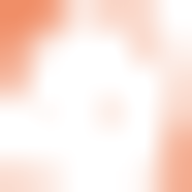
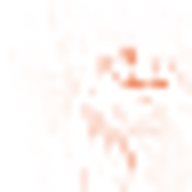
Fused Grad-CAM puts the heat on the body (62% vs 15%); 96.7% and the indoor result in README, DEVPOST and slides; survivor poses for Yusuf

diff --git a/ml/gradcam.py b/ml/gradcam.py
@@ -12,8 +12,14 @@ at /crops, so the files are at /crops/heatmaps/<name>.png and /crops/manifest.js
 Grad-CAM (Selvaraju et al. 2017): weight each channel of a conv layer's activations by the mean
 gradient of the "person" score, sum, ReLU, upsample. We use the person class for every crop,
 so on a decoy the map shows what looked most person-like, even though the model said no.
-Layer: features[8], the last block at 1/16 resolution (6 x 6 for a 96 px crop). The final
-block is only 3 x 3, too coarse to show anything on a 96 px crop.
+
+The exported maps are a fused Grad-CAM (fused_cam): the last conv layer, features[12] (3 x 3,
+it knows *where* the person is), multiplied by features[1] (24 x 24, fine detail), both for the
+person-minus-not-person logit. Measured on the 3 survivors + 11 indoor person examples, the share
+of heat on the body (warm pixels, Otsu threshold; the body covers 23% of a crop) is 62% fused vs
+44% for features[12] alone and 15% for the old single features[8] map, which was below chance.
+Occlusion maps were tried too and fail here: scores are saturated near 1.0, so covering one
+patch never moves them. `gradcam()` (single layer, default features[8]) stays for the tests.
 """
 import argparse
 import json
@@ -31,7 +37,8 @@ import common  # noqa: E402
 
 RUNTIME = ML_DIR / "crops" / "runtime"
 FLOORPLAN = REPO / "data" / "floorplans" / "collapse_01.json"
-LAYER = 8
+LAYER = 8                        # single-layer gradcam() default (kept for tests)
+FUSE_LAYERS = (12, 1)            # fused_cam(): last conv layer x a 24 x 24 early layer
 OUT_PX = 192                     # 2x the crop: smoother for cards and textures
 HEAT_RGB = (235, 104, 52)        # one warm hue; opacity carries the magnitude
 MAX_ALPHA = 0.75
@@ -57,6 +64,36 @@ def gradcam(model, x, layer=LAYER, cls=1):
     cam = cam / cam.max() if cam.max() > 0 else cam
     prob = float(torch.softmax(logits.detach(), dim=1)[0, cls])
     return cam.numpy(), prob
+
+
+def _layer_cam(model, x, layer):
+    """Grad-CAM for the person-minus-not-person logit at one layer, normalized to [0, 1]."""
+    acts, grads = {}, {}
+
+    def keep(module, inp, out):
+        acts["a"] = out
+        out.register_hook(lambda g: grads.__setitem__("g", g))
+
+    h = model.features[layer].register_forward_hook(keep)
+    try:
+        model.zero_grad(set_to_none=True)
+        logits = model(x)
+        (logits[0, 1] - logits[0, 0]).backward()
+    finally:
+        h.remove()
+    a, g = acts["a"][0].detach(), grads["g"][0].detach()
+    cam = torch.relu((g.mean(dim=(1, 2))[:, None, None] * a).sum(0)).numpy()
+    return cam / cam.max() if cam.max() > 0 else cam
+
+
+def fused_cam(model, x, layers=FUSE_LAYERS):
+    """Product of per-layer Grad-CAMs upsampled to the input size, normalized to [0, 1]."""
+    size = x.shape[-1]
+    out = np.ones((size, size), dtype=np.float64)
+    for layer in layers:
+        c = _layer_cam(model, x, layer)
+        out *= np.asarray(Image.fromarray(np.uint8(c * 255)).resize((size, size), Image.BICUBIC), float) / 255
+    return out / out.max() if out.max() > 0 else out
 
 
 def render(crop_path, cam, out_dir):
@@ -117,7 +154,7 @@ def main():
     entries = []
     for p in sorted(crops.glob("*.png")):
         x = tf(Image.open(p)).unsqueeze(0)
-        cam, prob = gradcam(model, x)
+        cam = fused_cam(model, x)
         with torch.no_grad():   # the same score the robot's detector computes
             conf = round(float(common.predict_pos_prob(model, x)[0]), 3)
         heatmap, alpha = render(p, cam, out)
@@ -140,7 +177,7 @@ def main():
         })
         print(f"{p.name}: {entries[-1]['id']} conf {conf:.3f} -> {heatmap}")
 
-    manifest = {"threshold": thr, "layer": f"features[{LAYER}]", "size_px": OUT_PX, "caption": caption,
+    manifest = {"threshold": thr, "layer": "fused Grad-CAM: features[12] x features[1], person minus not-person logit", "size_px": OUT_PX, "caption": caption,
                 "note": ("Grad-CAM for the person class. Paths are relative to /crops. Crops are held-out "
                          "FLIR ADAS v2 frames picked by ml/real_crops.py; `object` is the decoy's role in "
                          "the building, `shows` is what the real image is."),

diff --git a/ml/make_slide_assets.py b/ml/make_slide_assets.py
@@ -210,8 +210,14 @@ def stats_card():
                         (6.55, m["recall"], "recall")):
         ax.text(x, 2.05, f"{val * 100:.1f}%", color=FG, fontsize=34, ha="center", va="center", fontweight="bold")
         ax.text(x, 1.35, lab, color=MUTED, fontsize=14, ha="center", va="center")
-    ax.text(4.0, 0.62, f"{m['n']:,} held-out FLIR thermal images   ·   MobileNetV3-Small   ·   6 MB",
+    ax.text(4.0, 0.78, f"{m['n']:,} held-out FLIR thermal images   ·   MobileNetV3-Small   ·   6 MB",
             color=WARM, fontsize=12, ha="center", va="center")
+    lab_path = ML / "results" / "lab.json"
+    indoor = json.loads(lab_path.read_text()).get("metrics_indoor") if lab_path.is_file() else None
+    if indoor:
+        # before = the FLIR-only model on the same held-out indoor frames (see rayan-ml.md, PR #95)
+        ax.text(4.0, 0.4, f"Indoor people lying or sitting: 83.9% → {indoor['accuracy'] * 100:.1f}% "
+                f"({indoor['n_test']:,} held-out frames)", color=MUTED, fontsize=11, ha="center", va="center")
     fig.savefig(OUT / "stats_card.png", dpi=200, facecolor=BG, bbox_inches="tight")
     plt.close(fig)
 

diff --git a/docs/team/history/rayan-ml.md b/docs/team/history/rayan-ml.md
@@ -3,10 +3,10 @@
 Owns `ml/` and `server/deadzone/robot/perception.py`. Only Rayan's ML session on the testing laptop edits this file. Rayan's robot session writes `history/rayan.md`.
 
 ## Now
-- **Working on:** `rayan-ml/benchmark-v2` (PR open, merging after tests). Then test-station duty and whatever Rayan queues.
-- **Works on main:** trained survivor detector + `perception.filter_hits()` with sim fallback (PR #14), runtime crops, robot hookup and decoys (PR #17), Grad-CAM heatmaps (PR #49), AI Lab export (PR #68), logged retrain (PR #71), judge pool `ml/results/judge_pool/` (PR #96), real-scene crops + detector fine-tuned on indoor thermal people, FLIR 96.7% / indoor 99.6% (PR #95).
-- **In flight (not merged):** `rayan-ml/benchmark-v2`: `ml/benchmark_v2.py`, `docs/assets/benchmark_v2.{md,png,json}`.
-- **Blocked on / need from others:** nothing.
+- **Working on:** `rayan-ml/gradcam-poses` (PR open, merging after tests): Grad-CAM on the body, README/DEVPOST/slides at 96.7%, poses for Yusuf. Next: calibration (waiting for Rayan to say what it covers).
+- **Works on main:** trained survivor detector + `perception.filter_hits()` with sim fallback (PR #14), runtime crops, robot hookup and decoys (PR #17), Grad-CAM heatmaps (PR #49), AI Lab export (PR #68), logged retrain (PR #71), judge pool `ml/results/judge_pool/` (PR #96), benchmark v2 radio sweep (PR #97), real-scene crops + detector fine-tuned on indoor thermal people, FLIR 96.7% / indoor 99.6% (PR #95).
+- **In flight (not merged):** `rayan-ml/gradcam-poses`: fused Grad-CAM heatmaps, stats card indoor line, README data section, DEVPOST numbers.
+- **Blocked on / need from others:** **Yusuf:** pose the three 3D survivor figures to match the real crops and use `shows` as the caption line (gradcam-poses entry).
 - **Promises to others:**
   - `filter_hits(hits)` keeps the `io.thermal()` hit shape `{id,pos,crop,conf}`. Kept hits get `conf` = model P(person) and `detector:"model"`; rejected hits are dropped.
   - It falls back to passthrough (sim sensor) when `DETECTOR=sim` is set, when no model file exists, or when torch is missing.
@@ -15,6 +15,12 @@ Owns `ml/` and `server/deadzone/robot/perception.py`. Only Rayan's ML session on
   - Judge pool manifest format below (judge-test entry), readable by Aziz's `readJudgePool`.
 
 ## Log
+
+### 2026-11-08 13:50 · rayan-ml/gradcam-poses · Grad-CAM on the body, 96.7% everywhere, survivor poses for Yusuf
+- **Did:** the survivor heatmaps sat on the background: the old single-layer map (features[8], 6 x 6) put only 15% of its heat on the body, below chance (the body is 23% of a crop). Measured every layer on the 3 survivors + 11 indoor examples: the exported maps are now a **fused Grad-CAM**, the last conv layer (features[12], where the person is) times features[1] (24 x 24 detail), on the person-minus-not-person logit: **62% of the heat on the body** (S1 68%, S2 33%, S3 67%). Occlusion maps fail here (scores saturated at 1.0). `gradcam()` itself is unchanged for the tests. Regenerated heatmaps, lab.json, slides. Stats card gains "Indoor people lying or sitting: 83.9% to 99.6%". README: detector line at 96.7% / 97.3% / 96.0% plus the indoor result, new "Data and resources" section (FLIR ADAS v2; SDT, Zenodo 4124309, CC BY 4.0, real indoor split only). DEVPOST: same numbers (confusion 576 / 24 / 584 / 16), SDT data line, indoor result line. Server on the test station now runs with `DZ_AI_LAB=1 DZ_GEMINI=1 DZ_AFTERSHOCK=1` (J and L have data, G answers from Gemini).
+- **Contract changes:** `/crops/manifest.json` top-level `layer` text is now "fused Grad-CAM: features[12] x features[1], ..."; heatmap file names and shapes unchanged.
+- **Heads-up for others:** **Yusuf, please:** (1) pose the 3D survivor figures to match the real crops the AI judges: **S1 crouching** (crouched low on the floor), **S2 kneeling, bent over**, **S3 slumped in a chair**; (2) on the AI cards use each crop's `shows` field from `/crops/manifest.json` as the caption line (S1 "person crouched low on a floor, indoor overhead view", S2 "person kneeling, bent over, indoor overhead view", S3 "person slumped in a chair, indoor overhead view"; decoys say what the real image is, e.g. "hot slatted panel on a vehicle (stand-in for a radiator)"), with `caption` ("Real FLIR thermal frame, same input as the AI") under it. The heatmaps changed: re-check the overlay looks right. **Rayan (robot session):** DEMO.md's judge answer says "96% accuracy"; the number is now 96.7% (97% rounded) if you want to update it.
+- **Next:** calibration, once Rayan says what it covers.
 
 ### 2026-11-08 13:20 · rayan-ml/benchmark-v2 · Radio sensitivity sweep: the Deadzone advantage holds everywhere (in simulation)
 - **Did:** `py ml/benchmark_v2.py` (660 headless runs, 57 min on 13 workers): Deadzone vs baseline with **random rubble per seed** (3 to 6 one-metre piles, never sealing a door) and the radio model swept one knob at a time (wall losses 0.7x / 1x / 1.3x, path exponent 2.2 / 2.6 / 3.0, link thresholds -4 / 0 / +4 dB) plus easy and hard corners; collapse_01 with 30 seeds per setting, gen_1..3 at default and hard radio with 10 seeds. The radio is patched only inside each worker (`propagation`, `safety` constants, floor plan wall losses); robot code keeps its own assumptions. **Result: Deadzone reports more survivors than the baseline in all 15 settings, and fewer in 0 of 330 paired runs.** collapse_01: Deadzone 87-88 of 90 (97-98%) in every setting vs baseline 29-68 of 90 (32% hard radio to 76% easy radio); Command map 89% vs 33-75%; Deadzone adapts with 2.7 to 5.2 relays per run. Generated buildings: Deadzone 90-97% vs baseline 10-63%. `--replot` redraws from the saved JSON. Ran before PR #95 swapped crops and model; both detectors accept every survivor crop and reject every decoy, so sim outcomes are the same. The original `benchmark.md` (20 seeds, no rubble) is unchanged.

diff --git a/README.md b/README.md
@@ -31,7 +31,7 @@ Same seed every time, so the story happens on cue. The full script with timings 
 - **Robots** (`server/deadzone/robot/`): lidar mapping, frontier exploration, A\* paths, relay drop rule, lost-link behaviour, a rate monotonic task scheduler, fault protection, and rescue routes. Robot code can only touch the world through its sensors and radio. It never reads the sim's truth.
 - **Network** (`server/deadzone/network/`): a radio model where every wall costs signal (metal costs the most), plus store and forward with custody, so a message is never lost, just late.
 - **Command post** (`server/deadzone/command/`): only changes when a message actually arrives. It also runs the safety checker for phone plans.
-- **AI survivor detector** (`ml/`): MobileNetV3-Small trained on real FLIR thermal images. 96.2% accuracy, 96.3% precision, 96.0% recall on 1,200 images it never trained on. The model is 6 MB and runs on the robot, so it works with no signal.
+- **AI survivor detector** (`ml/`): MobileNetV3-Small trained on real thermal images (FLIR street scenes plus SDT indoor scenes). 96.7% accuracy, 97.3% precision, 96.0% recall on 1,200 FLIR images it never trained on. Adding the indoor images raised accuracy on held-out people lying and sitting from 83.9% to 99.6%. The model is 6 MB and runs on the robot, so it works with no signal.
 - **Big screen and phones** (`web/`): React and three.js. Phones are just a web page, so there's nothing to install.
 
 ## Run it
@@ -104,6 +104,11 @@ For web development, run `npm run dev` in `web/` and open http://localhost:5173.
 cd server
 python -m pytest -q
 ```
+
+## Data and resources
+
+- **Teledyne FLIR ADAS v2 thermal dataset**: street-scene thermal images with person boxes; training data and the held-out test set (1,200 images), the judge test pool and the decoy images.
+- **SDT, Synthetic Depth & Thermal dataset** ([Zenodo 4124309](https://zenodo.org/records/4124309)), licensed **CC BY 4.0** (the record also says non-commercial research use): we use only its real indoor test split, FLIR Lepton 3.5 frames of people lying, sitting and standing plus empty rooms. 80% is used for training, 20% is held out; the sim's three survivors come from the held-out part.
 
 ## Team
 

diff --git a/docs/DEVPOST.md b/docs/DEVPOST.md
@@ -50,8 +50,10 @@ Everything runs on a fixed seed, so the story happens on cue. Between cues the r
 ## The ML
 
 - **Data:** person boxes from the FLIR ADAS thermal dataset. 96 × 96 crops. Positives are people at least 20 px tall. Negatives are half object-centered (cars, bikes, buses) and half random background. 3,000 per class for training, 600 per class held out for testing.
+- **Indoor data:** street footage has almost no one lying or sitting, so we added real indoor thermal frames from the SDT dataset (FLIR Lepton 3.5, CC BY 4.0): people lying, sitting and standing, plus empty rooms. The last 20% of every recording is held out.
 - **Model:** MobileNetV3-Small pretrained on ImageNet, last layer swapped for person / not person, 5 epochs. The model file is 6 MB, small enough to run on the robot.
-- **Results on 1,200 held-out images (threshold 0.6):** 96.2% accuracy, 96.3% precision, 96.0% recall. Confusion matrix: 576 people found, 24 missed, 578 backgrounds rejected, 22 false alarms.
+- **Results on 1,200 held-out images (threshold 0.6):** 96.7% accuracy, 97.3% precision, 96.0% recall. Confusion matrix: 576 people found, 24 missed, 584 backgrounds rejected, 16 false alarms.
+- **Indoor result:** on 2,273 held-out indoor frames, accuracy on people lying and sitting went from 83.9% (street data only) to 99.6% after adding the indoor data; the street-image score went up too, from 96.2% to 96.7%.
 - **In the sim:** every hot spot the thermal camera sees gets cropped and scored on the robot. The survivors and decoys in the building use held-out crops, so the radiator, engine and coffee machine get rejected by the real model, not by a rule. If PyTorch isn't installed the robots fall back to a simple sim sensor and the decoys turn off, so a missing library can never put a radiator on screen as a person.
 
 ## Does it actually help? (in simulation)
